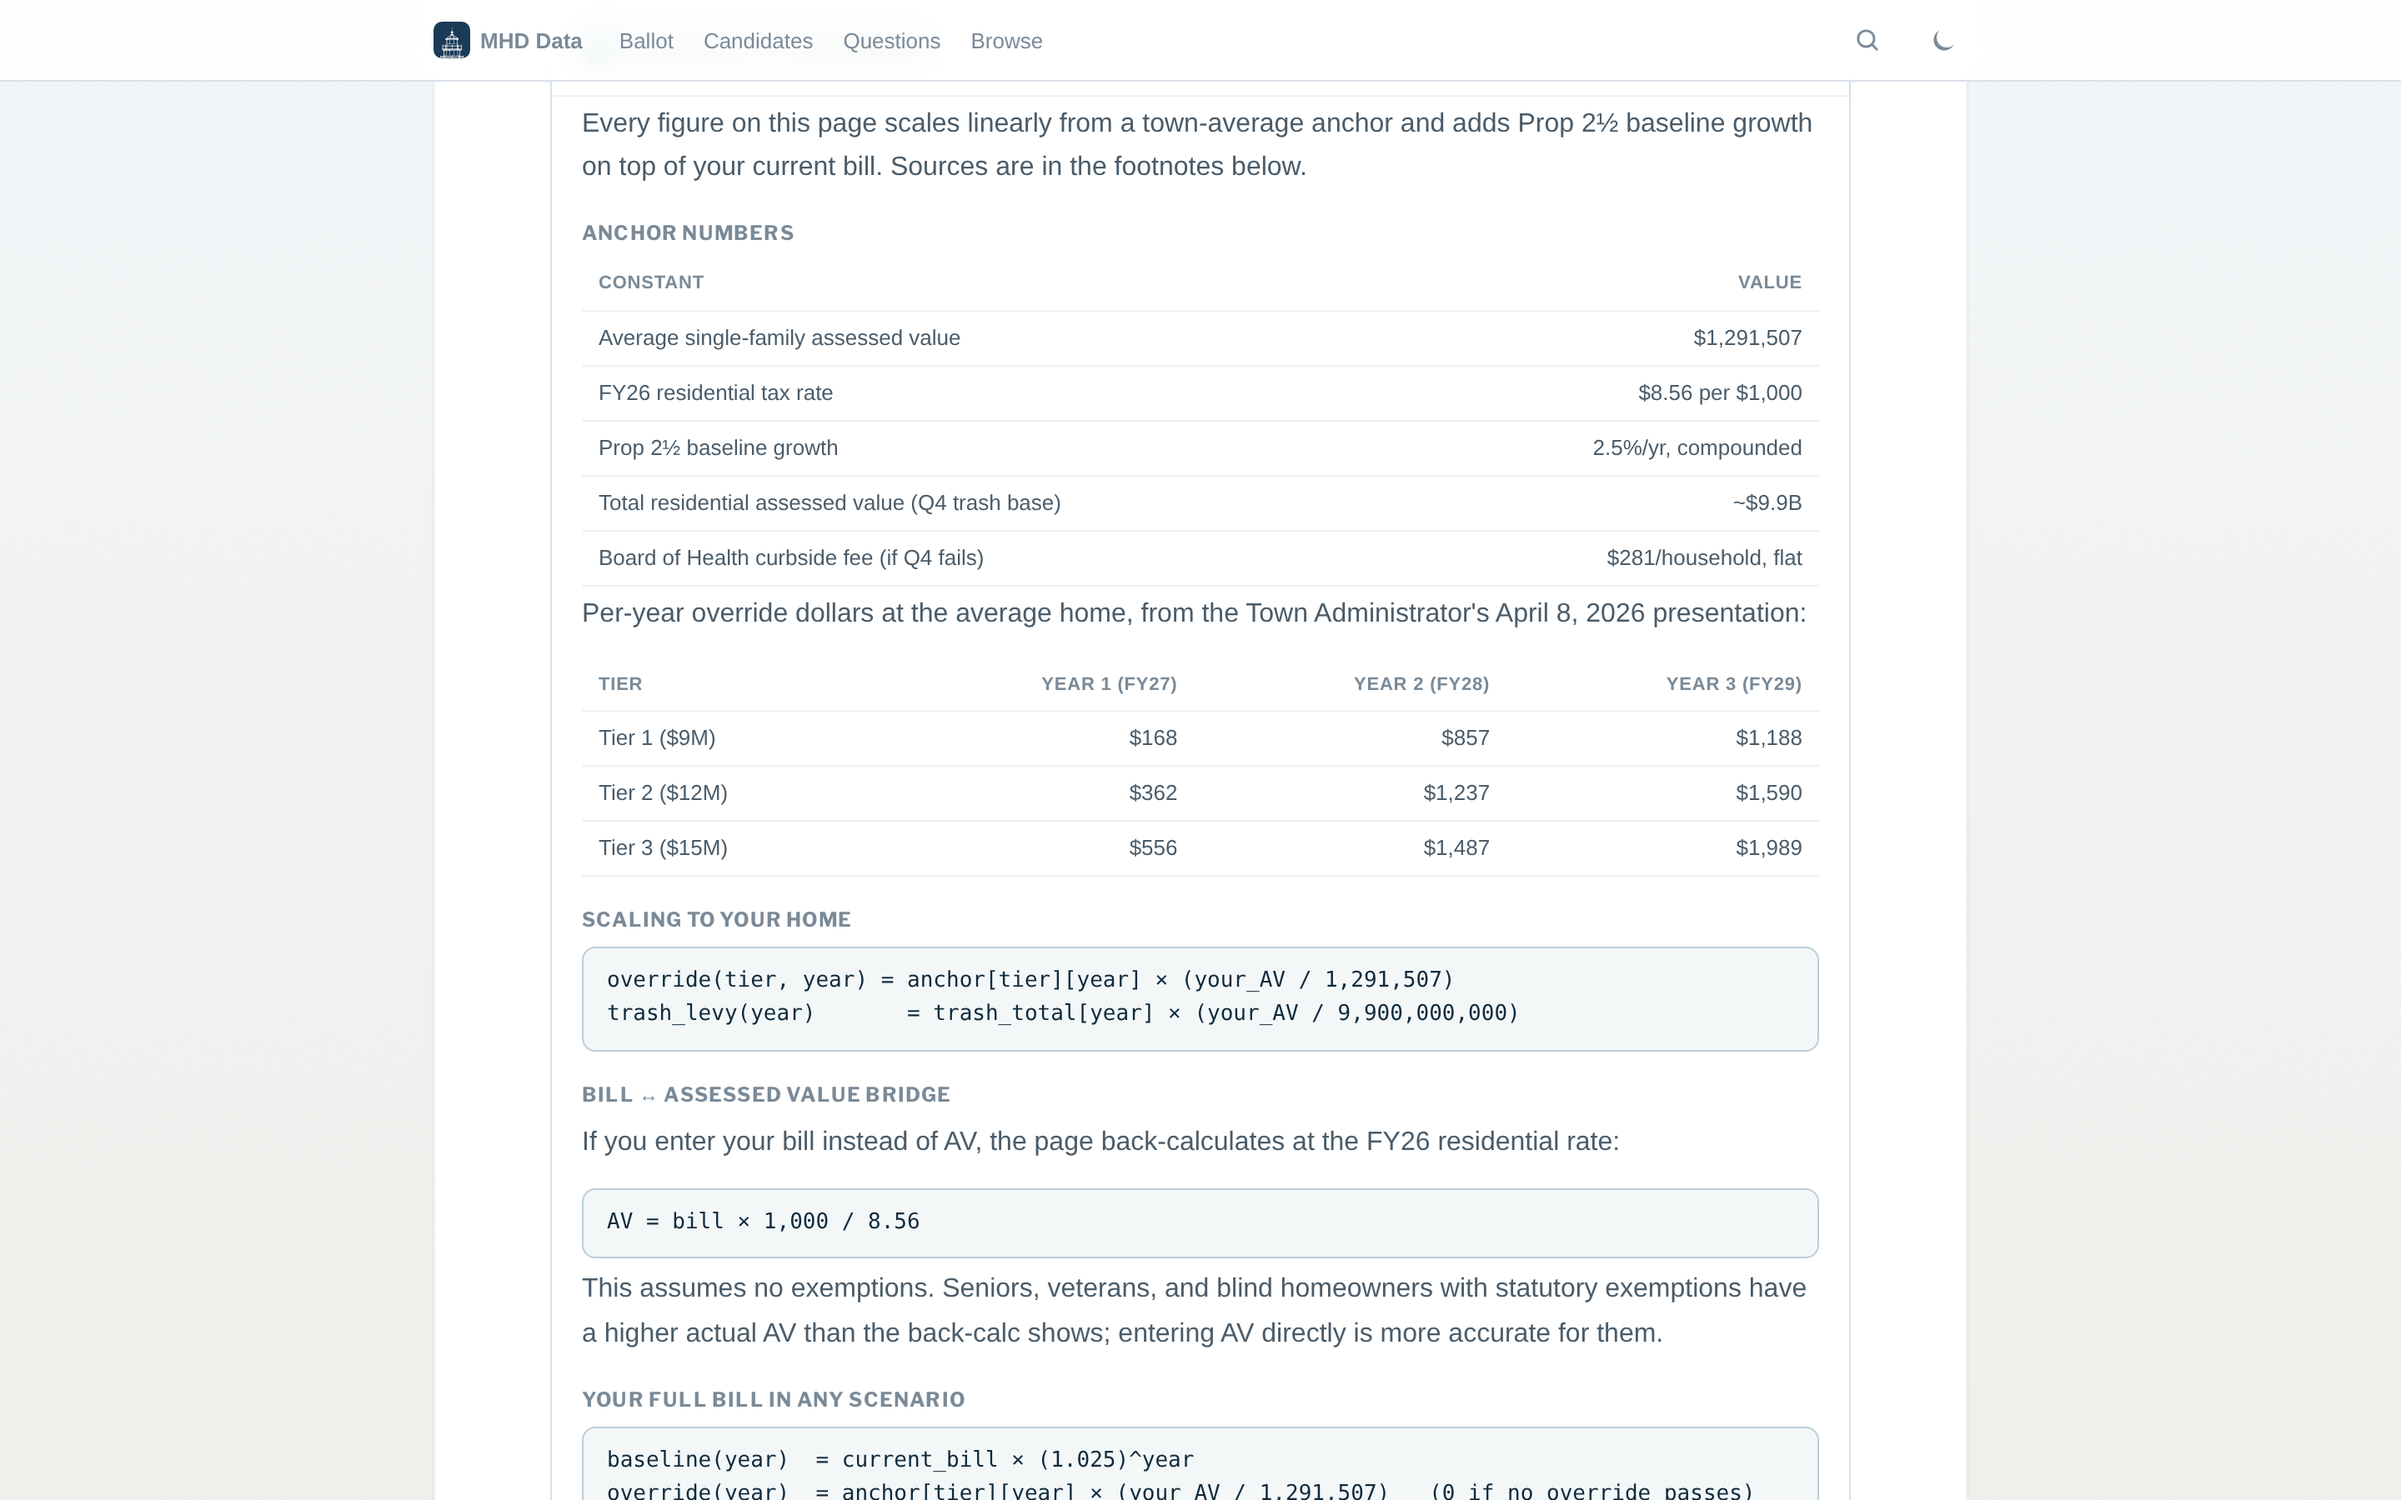
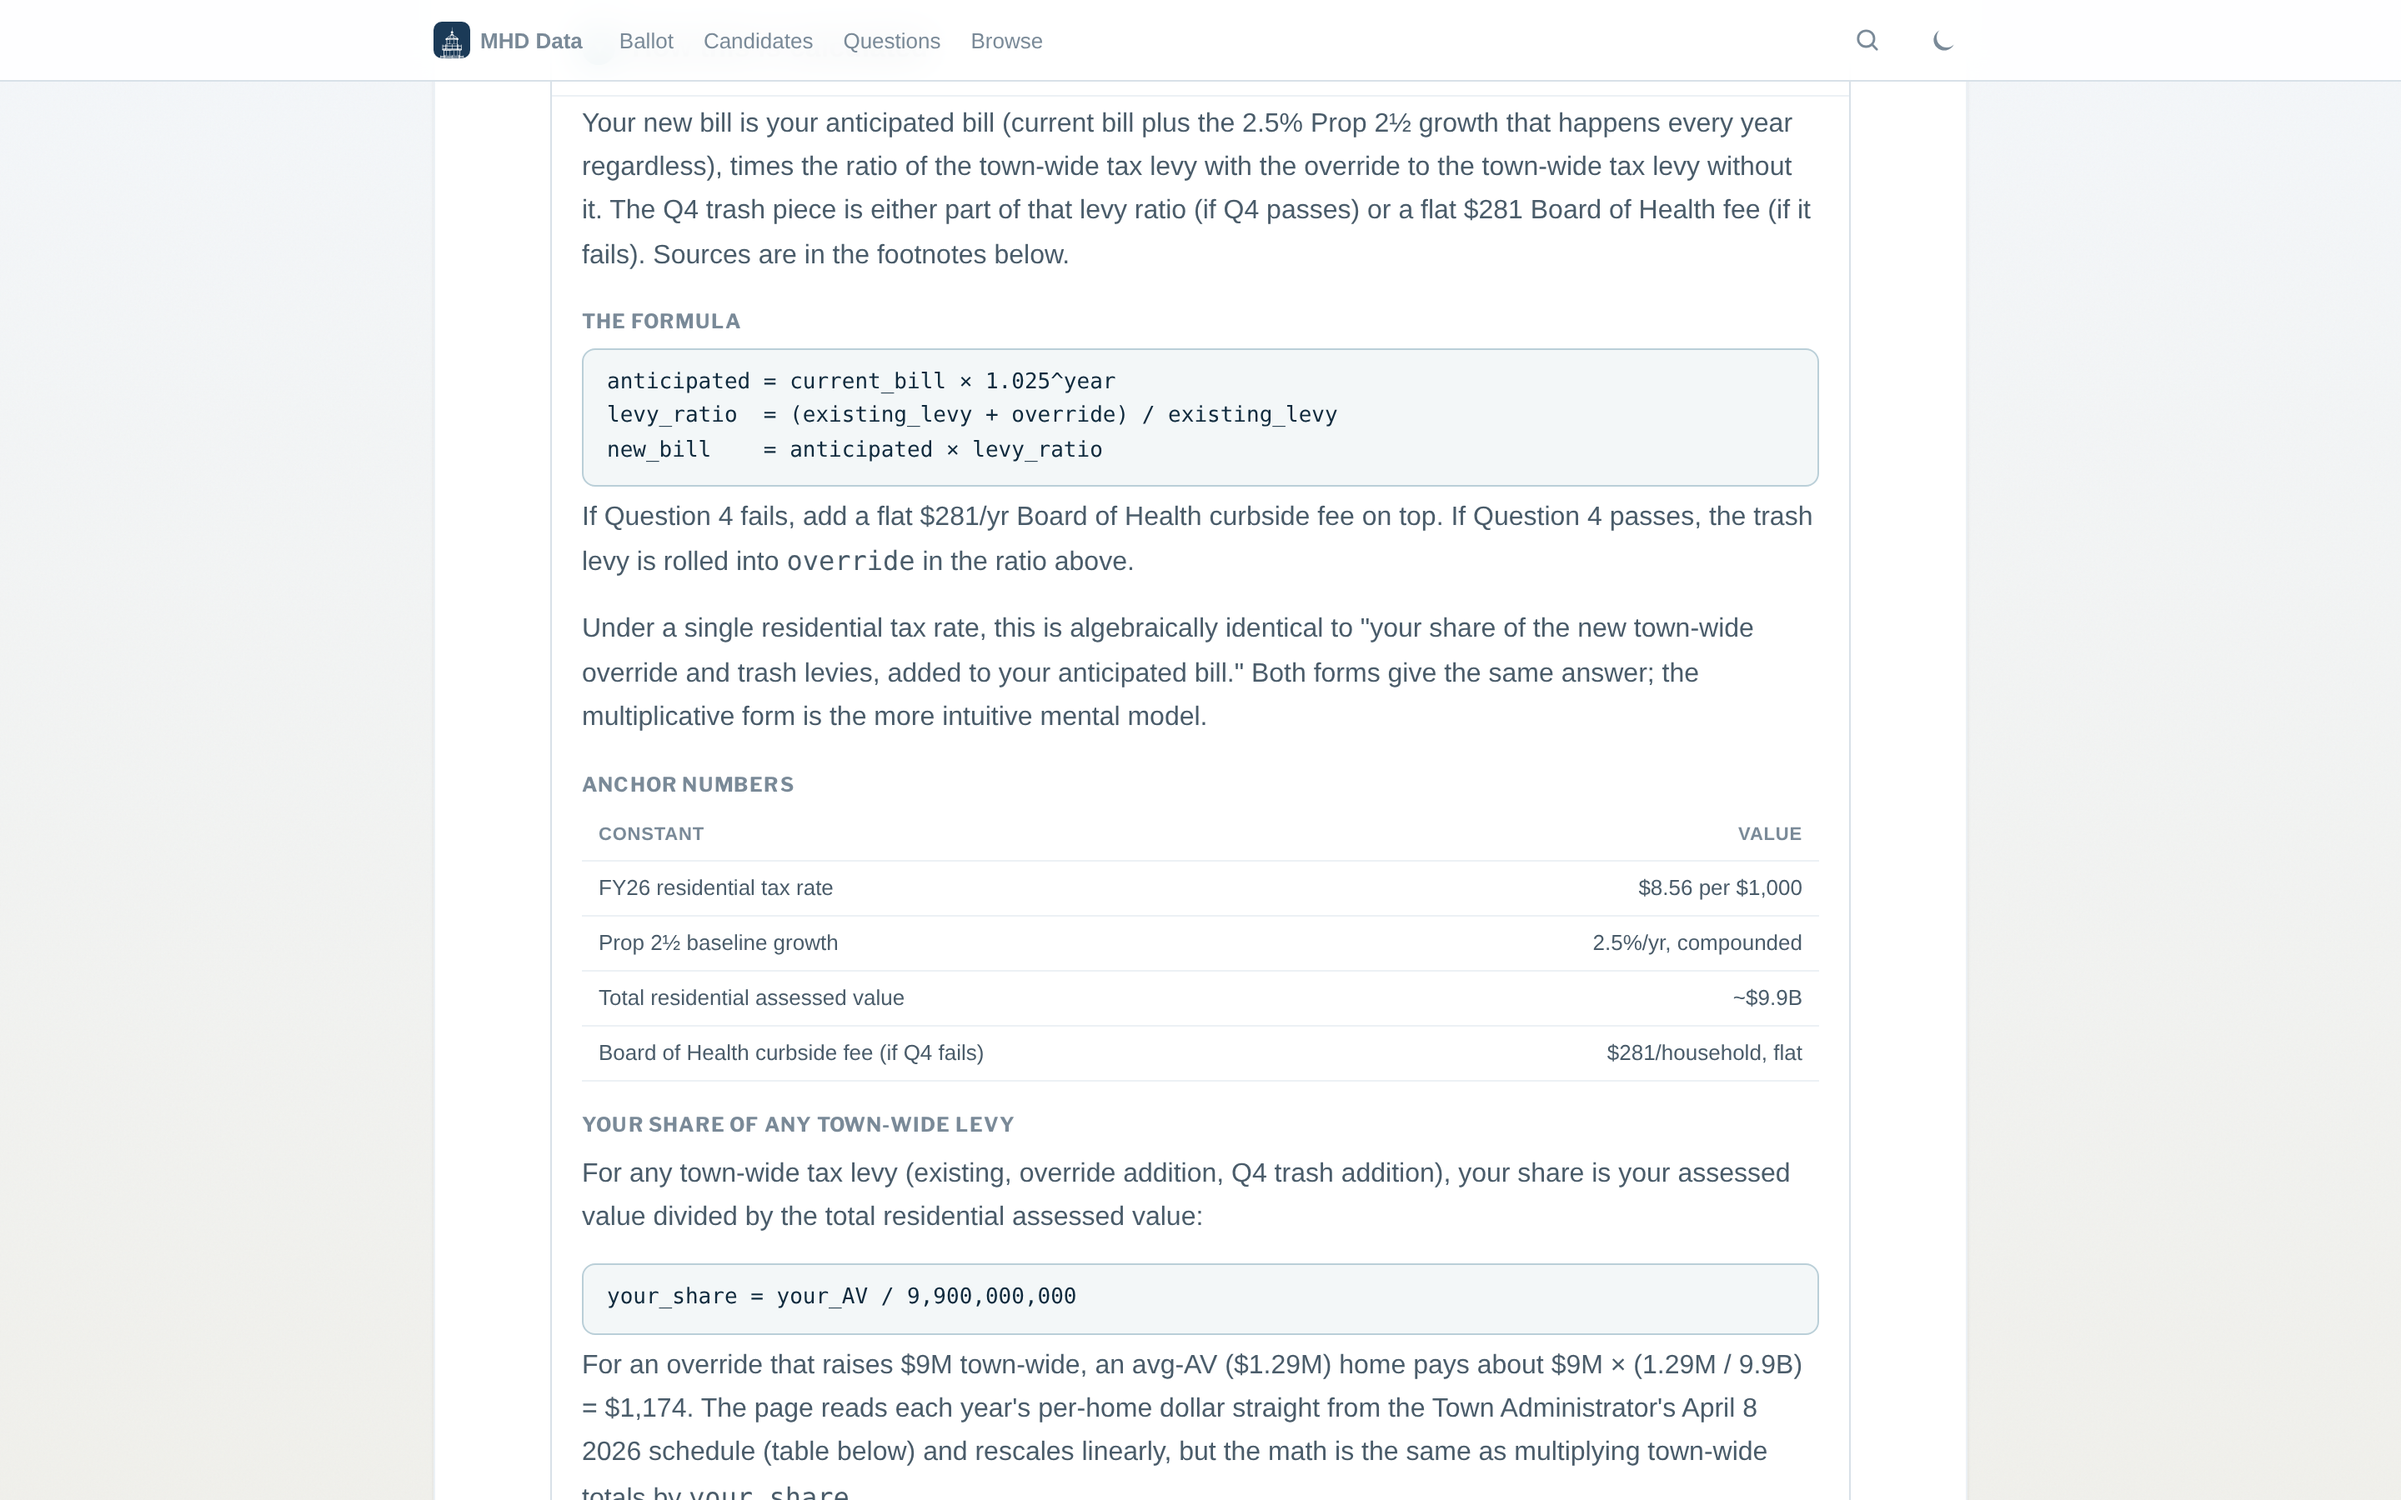
Methodology: lead with levy-ratio form, drop avg-AV anchor, fix mobile
Two fixes to the methodology disclosure shipped in the previous commit:

1. Framing. The shipped version led with my additive form
   (baseline + scaled per-avg-home anchor). The cleaner mental model
   is the levy-ratio form a reader proposed in review:

       anticipated = current_bill × 1.025^year
       levy_ratio  = (existing_levy + override) / existing_levy
       new_bill    = anticipated × levy_ratio

   Lead with that. Both forms are algebraically identical under a
   single residential rate; mention that explicitly so a skeptic
   doesn't think we picked one of two methods.

2. Drop the average-AV anchor from the share calc. The reader also
   asked "why are we locking to the average?" The avg-AV anchor was
   a unit-conversion artifact of the published source (Town Admin's
   per-average-home dollar), not a modeling choice. Restate the
   share formula in terms of total residential AV directly:

       your_share = your_AV / 9,900,000,000

   The per-tier per-year table stays (it's the published source of
   truth), but the conceptual share calc no longer routes through
   the average. The text now explicitly says the rescale-from-avg is
   how the page reads the published source, not how the math works
   in principle.

3. Mobile readability. Formula <code> blocks were using
   white-space: pre-wrap, which folded equations mid-expression
   and destroyed the = alignment. Switch to white-space: pre with
[…]

diff --git a/charts/override_calculator.html b/charts/override_calculator.html
@@ -391,7 +391,13 @@ title: "What the Override Costs You"
   font-family: ui-monospace, SFMono-Regular, Menlo, Consolas, monospace;
   font-size: 13px; color: var(--text);
   font-variant-numeric: tabular-nums;
-  white-space: pre-wrap; word-break: break-word;
+  /* Preserve equation alignment; let long lines scroll horizontally
+     instead of wrapping mid-expression. */
+  white-space: pre; overflow-x: auto;
+  -webkit-overflow-scrolling: touch;
+}
+@media (max-width: 520px) {
+  .method-formula { font-size: 11.5px; padding: 8px 10px; }
 }
 .methodology-body .anchor-table {
   width: 100%; border-collapse: collapse;
@@ -481,21 +487,33 @@ title: "What the Override Costs You"
   <details class="methodology" id="methodology">
     <summary>How this is calculated</summary>
     <div class="methodology-body">
-      <p>Every figure on this page scales linearly from a town-average anchor and adds Prop 2&frac12; baseline growth on top of your current bill. Sources are in the footnotes below.</p>
+      <p>Your new bill is your anticipated bill (current bill plus the 2.5% Prop 2&frac12; growth that happens every year regardless), times the ratio of the town-wide tax levy with the override to the town-wide tax levy without it. The Q4 trash piece is either part of that levy ratio (if Q4 passes) or a flat $281 Board of Health fee (if it fails). Sources are in the footnotes below.</p>
+
+      <h3>The formula</h3>
+      <code class="method-formula">anticipated = current_bill &times; 1.025^year
+levy_ratio  = (existing_levy + override) / existing_levy
+new_bill    = anticipated &times; levy_ratio</code>
+      <p>If Question 4 fails, add a flat $281/yr Board of Health curbside fee on top. If Question 4 passes, the trash levy is rolled into <code>override</code> in the ratio above.</p>
+      <p>Under a single residential tax rate, this is algebraically identical to "your share of the new town-wide override and trash levies, added to your anticipated bill." Both forms give the same answer; the multiplicative form is the more intuitive mental model.</p>
 
       <h3>Anchor numbers</h3>
       <table class="anchor-table">
         <thead><tr><th>Constant</th><th>Value</th></tr></thead>
         <tbody>
-          <tr><td>Average single-family assessed value</td><td>$1,291,507</td></tr>
           <tr><td>FY26 residential tax rate</td><td>$8.56 per $1,000</td></tr>
           <tr><td>Prop 2&frac12; baseline growth</td><td>2.5%/yr, compounded</td></tr>
-          <tr><td>Total residential assessed value (Q4 trash base)</td><td>~$9.9B</td></tr>
+          <tr><td>Total residential assessed value</td><td>~$9.9B</td></tr>
           <tr><td>Board of Health curbside fee (if Q4 fails)</td><td>$281/household, flat</td></tr>
         </tbody>
       </table>
 
-      <p>Per-year override dollars at the average home, from the Town Administrator's April 8, 2026 presentation:</p>
+      <h3>Your share of any town-wide levy</h3>
+      <p>For any town-wide tax levy (existing, override addition, Q4 trash addition), your share is your assessed value divided by the total residential assessed value:</p>
+      <code class="method-formula">your_share = your_AV / 9,900,000,000</code>
+      <p>For an override that raises $9M town-wide, an avg-AV ($1.29M) home pays about $9M &times; (1.29M / 9.9B) = $1,174. The page reads each year's per-home dollar straight from the Town Administrator's April 8 2026 schedule (table below) and rescales linearly, but the math is the same as multiplying town-wide totals by <code>your_share</code>.</p>
+
+      <h3>Override draw per year, per tier</h3>
+      <p>The override phases in over three years. These are the dollars an average single-family home ($1,291,507 AV) pays at end of each phase-in year. To get your number, multiply by (your_AV / $1,291,507).</p>
       <table class="anchor-table">
         <thead><tr><th>Tier</th><th>Year 1 (FY27)</th><th>Year 2 (FY28)</th><th>Year 3 (FY29)</th></tr></thead>
         <tbody>
@@ -504,32 +522,19 @@ title: "What the Override Costs You"
           <tr><td>Tier 3 ($15M)</td><td>$556</td><td>$1,487</td><td>$1,989</td></tr>
         </tbody>
       </table>
-
-      <h3>Scaling to your home</h3>
-      <code class="method-formula">override(tier, year) = anchor[tier][year] &times; (your_AV / 1,291,507)
-trash_levy(year)       = trash_total[year] &times; (your_AV / 9,900,000,000)</code>
+      <p>Source: Town Administrator's April 8 2026 presentation, slide 8. Year 2 and Year 3 already include 2.5% Prop 2&frac12; growth compounding on the override base during phase-in, which is why this method gives slightly higher numbers than the simplified per-$1,000 rates in the April 15 presentation (e.g. $918/yr vs. $899/yr at median home for Tier 1).</p>
 
       <h3>Bill &harr; assessed value bridge</h3>
       <p>If you enter your bill instead of AV, the page back-calculates at the FY26 residential rate:</p>
       <code class="method-formula">AV = bill &times; 1,000 / 8.56</code>
       <p>This assumes no exemptions. Seniors, veterans, and blind homeowners with statutory exemptions have a higher actual AV than the back-calc shows; entering AV directly is more accurate for them.</p>
 
-      <h3>Your full bill in any scenario</h3>
-      <code class="method-formula">baseline(year)  = current_bill &times; (1.025)^year
-override(year)  = anchor[tier][year] &times; (your_AV / 1,291,507)   (0 if no override passes)
-trash(year)     = trash_levy(year) if Q4 passes, else $281 BoH fee
-total(year)     = baseline + override + trash
-override_share  = override / total</code>
-
       <h3>Cumulative cost (5- and 10-year totals)</h3>
       <p>The override is permanent. Year 3 is the full phase-in rate; the cumulative formula assumes it holds steady after that:</p>
       <code class="method-formula">cumulative(N years) = Y1 + Y2 + Y3 &times; (N &minus; 2)</code>
 
       <h3>Income context</h3>
-      <p>Each cell is the Year 3 (full phase-in) override at your AV, divided by the bracket income. Percentile labels come from ACS 2020&ndash;2024 table B19001 for Marblehead.</p>
-
-      <h3>Why these numbers are a touch higher than the April 15 per-$1,000 figures</h3>
-      <p>The anchor table already bakes in 2.5% Prop 2&frac12; growth compounding on the override base during the three-year phase-in. The simplified per-$1,000 rates in the April 15 presentation strip that out for legibility. Same source, same math, slightly fuller picture: $918/yr here vs. $899/yr there at the median home for Tier 1.</p>
+      <p>Each cell is your Year 3 (full phase-in) override cost, divided by the bracket income. Percentile labels come from ACS 2020&ndash;2024 table B19001 for Marblehead.</p>
     </div>
   </details>
 
